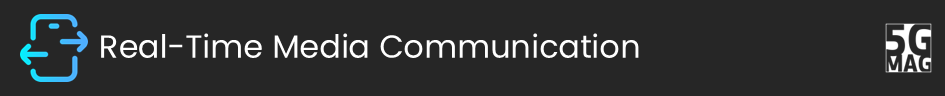
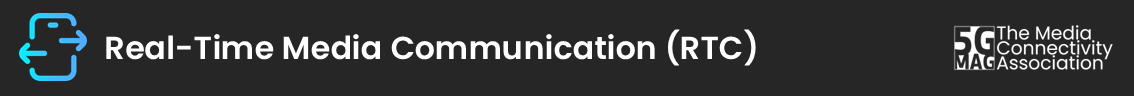
Documentation updates aligning with Tech and Getting-Started (#199)
* Update ls.md

* Update index.md

* Add files via upload

* Update index.md

* Update index.md

* Delete assets/images/Banner_Std.png

* Rename Banner_Std.PNG to Banner_Std.png

* Add files via upload

* Update standards.md

* Update standards.md

* Delete assets/images/Banner_Std.PNG

* Add files via upload

* Delete assets/images/Banner_5GBC.png

* Delete assets/images/Banner_5GC.png

* Delete assets/images/Banner_5GMS.png

* Delete assets/images/Banner_5MBS.png

* Delete assets/images/Banner_API.png

* Delete assets/images/Banner_B2D.png

* Delete assets/images/Banner_DVBI.png

* Delete assets/images/Banner_MD.png

* Delete assets/images/Banner_UEDC.png

* Delete assets/images/Banner_V3C.png

* Update 5g-core-service-consumers.md

* Update 5g-media-streaming.md

* Update 5g-multicast-broadcast-services.md

* Create avatar-communications.md

* Update beyond2d.md

* Update data-collection-event-exposure.md

* Update dvb-i-5g.md

* Update lte-based-5g-broadcast.md

* Update multimedia-content-delivery.md

* Update network_apis.md

* Update volumetric-video.md

* Update 5g-media-streaming.md

* Update 5g-multicast-broadcast-services.md

* Update lte-based-5g-broadcast.md

* Update 5g-core-service-consumers.md

* Create 6g.md

* Update aiml.md

* Update beyond2d.md

* Update avatar-communications.md

* Update dvb-i-5g.md

* Update multimedia-content-delivery.md

* Update network_apis.md

* Update npn.md

* Update ntn.md

* Update rtc.md

* Update tsc.md
[…]

Changed region(s): [[0.0, 0.125, 0.6751, 0.875], [0.8286, 0.2188, 1.0, 0.7812]]

diff --git a/index.md b/index.md
@@ -7,7 +7,11 @@ has_children: false
 
 <img src="./assets/images/Banner_Std.png" /> 
 
-This is the entry point to relevant information on **Standards and Specifications** and 5G-MAG's relation with SDOs.
+[Go to Reference Tools](https://developer.5g-mag.com){: .btn .btn-blue } [Go to Technical Documentation](https://tech.5g-mag.com){: .btn .btn-blue }
+
+<img src="../Tech/assets/images/5GMAG.png">
+
+This is the entry point to 5G-MAG's work on **Standards and Specifications**.
 
 # Feedback to Specifications
 5G-MAG maintains a GitHub repository to provide [**Feedback to Specifications**](pages/feedback.html) based, in particular, on software development, implementation and deployment.
@@ -20,79 +24,88 @@ This is the entry point to relevant information on **Standards and Specification
 
 ---
 
-# Standards and Specifications
+# Quick reference to standards and specifications (A-Z)
 
 <table>
   <tr>
-    <td markdown="span" align="center"><a href="./pages/5g-media-streaming.html"><img width="90%" style="border:5px solid black;" src="../Tech/assets/images/Tech_5G_Media_Streaming.png"><a/></td>
-    <td markdown="span" align="center"><a href="./pages/data-collection-event-exposure.html"><img width="90%" style="border:5px solid black;" src="../Tech/assets/images/Tech_UE_Data_Collection.png"><a/></td>
-  </tr>
-  <tr>
-    <td markdown="span" align="center">[Standards and Specifications](./pages/5g-media-streaming.html){: .btn .btn-blue } </td>
-    <td markdown="span" align="center">[Standards and Specifications](./pages/data-collection-event-exposure.html){: .btn .btn-blue } </td>
-  </tr>
-    <td><br></td>
-  <tr>
-    <td markdown="span" align="center"><a href="./pages/lte-based-5g-broadcast.html"><img width="90%" style="border:5px solid black;" src="../Tech/assets/images/Tech_5G_Broadcast.png"><a/></td>
-    <td markdown="span" align="center"><a href="./pages/5g-multicast-broadcast-services.html"><img width="90%" style="border:5px solid black;" src="../Tech/assets/images/Tech_5G_Multicast_Broadcast.png"><a/></td>
+    <td markdown="span" align="center"><a href="./pages/lte-based-5g-broadcast.html"><img width="90%" style="border:5px solid black;" src="../Tech/assets/images/Page_5G_Broadcast.png"><a/></td>
+    <td markdown="span" align="center"><a href="./pages/5g-media-streaming.html"><img width="90%" style="border:5px solid black;" src="../Tech/assets/images/Page_5G_Media_Streaming.png"><a/></td>
   </tr>
   <tr>
     <td markdown="span" align="center">[Standards and Specifications](./pages/lte-based-5g-broadcast.html){: .btn .btn-blue } </td>
+    <td markdown="span" align="center">[Standards and Specifications](./pages/5g-media-streaming.html){: .btn .btn-blue } </td>
+  </tr>
+    <td><br></td><td><br></td>
+  <tr>
+    <td markdown="span" align="center"><a href="./pages/5g-multicast-broadcast-services.html"><img width="90%" style="border:5px solid black;" src="../Tech/assets/images/Page_5G_Multicast_Broadcast.png"><a/></td>
+    <td markdown="span" align="center"><a href="./pages/5g-core-service-consumers.html"><img width="90%" style="border:5px solid black;" src="../Tech/assets/images/Page_5GC_Service_Consumers.png"><a/></td>
+  </tr>
+  <tr>
     <td markdown="span" align="center">[Standards and Specifications](./pages/5g-multicast-broadcast-services.html){: .btn .btn-blue } </td>
+    <td markdown="span" align="center">[Standards and Specifications](./pages/5g-core-service-consumers.html){: .btn .btn-blue } </td>
   </tr>
-    <td><br></td>
+    <td><br></td><td><br></td>
   <tr>
-    <td markdown="span" align="center"><a href="./pages/rtc.html"><img width="90%" style="border:5px solid black;" src="../Tech/assets/images/Tech_RTC.png"><a/></td>
-    <td markdown="span" align="center"><a href="./pages/network_apis.html"><img width="90%" style="border:5px solid black;" src="../Tech/assets/images/Tech_Network_APIs.png"><a/></td>
-  </tr>
-  <tr>
-    <td markdown="span" align="center">[Standards and Specifications](./pages/rtc.html){: .btn .btn-blue } </td>
-    <td markdown="span" align="center">[Standards and Specifications](./pages/network_apis.html){: .btn .btn-blue } </td>
-  </tr>
-    <td><br></td>
-  <tr>
-    <td markdown="span" align="center"><a href="./pages/ntn.html"><img width="90%" style="border:5px solid black;" src="../Tech/assets/images/Tech_NTN.png"><a/></td>
-    <td markdown="span" align="center"><a href="./pages/npn.html"><img width="90%" style="border:5px solid black;" src="../Tech/assets/images/Tech_NPN.png"><a/></td>
+    <td markdown="span" align="center"><a href="./pages/6g.html"><img width="90%" style="border:5px solid black;" src="../Tech/assets/images/Page_6G.png"><a/></td>
+    <td markdown="span" align="center"><a href="./pages/ai-ml-evaluation-framework.html"><img width="90%" style="border:5px solid black;" src="../Tech/assets/images/Page_AIML.png"><a/></td>
   </tr>
   <tr>
-    <td markdown="span" align="center">[Standards and Specifications](./pages/ntn.html){: .btn .btn-blue } </td>
-    <td markdown="span" align="center">[Standards and Specifications](./pages/npn.html){: .btn .btn-blue } </td>
-  </tr>
-    <td><br></td>
-  <tr>
-    <td markdown="span" align="center"><a href="./pages/tsc.html"><img width="90%" style="border:5px solid black;" src="../Tech/assets/images/Tech_TSC.png"><a/></td>
-    <td markdown="span" align="center"><a href="./pages/xr.html"><img width="90%" style="border:5px solid black;" src="../Tech/assets/images/Tech_XR_Media_MPEG_I_SD.png"><a/></td>
-  </tr>
-  <tr>
-    <td markdown="span" align="center">[Standards and Specifications](./pages/tsc.html){: .btn .btn-blue } </td>
-    <td markdown="span" align="center">[Standards and Specifications](./pages/xr.html){: .btn .btn-blue } </td>
-  </tr>
-    <td><br></td>
-  <tr>
-    <td markdown="span" align="center"><a href="./pages/volumetric-video.html"><img width="90%" style="border:5px solid black;" src="../Tech/assets/images/Tech_V3C.png"><a/></td>
-    <td markdown="span" align="center"><a href="./pages/beyond2d.html"><img width="90%" style="border:5px solid black;" src="../Tech/assets/images/Tech_Beyond2D.png"><a/></td>
-  </tr>
-  <tr>
-    <td markdown="span" align="center">[Standards and Specifications](./pages/volumetric-video.html){: .btn .btn-blue } </td>
-    <td markdown="span" align="center">[Standards and Specifications](./pages/beyond2d.html){: .btn .btn-blue } </td>
-  </tr>
-    <td><br></td>
-  <tr>
-    <td markdown="span" align="center"><a href="./pages/ai-ml-evaluation-framework.html"><img width="90%" style="border:5px solid black;" src="../Tech/assets/images/Tech_AIML.png"><a/></td>
-    <td markdown="span" align="center"><a href="./pages/multimedia-content-delivery.html"><img width="90%" style="border:5px solid black;" src="../Tech/assets/images/Tech_Multimedia_delivery_protocols.png"><a/></td>
-  </tr>
-  <tr>
+    <td markdown="span" align="center">[Standards and Specifications](./pages/6g.html){: .btn .btn-blue } </td>
     <td markdown="span" align="center">[Standards and Specifications](./pages/ai-ml-evaluation-framework.html){: .btn .btn-blue } </td>
-    <td markdown="span" align="center">[Standards and Specifications](./pages/multimedia-content-delivery.html){: .btn .btn-blue } </td>
   </tr>
-    <td><br></td>
+    <td><br></td><td><br></td>
   <tr>
-    <td markdown="span" align="center"><a href="./pages/dvb-i-5g.html"><img width="90%" style="border:5px solid black;" src="../Tech/assets/images/Tech_DVB_I_over_5G.png"><a/></td>
-    <td markdown="span" align="center"><a href="./pages/6g.html"><img width="90%" style="border:5px solid black;" src="../Tech/assets/images/Tech_6G.png"><a/></td>
+    <td markdown="span" align="center"><a href="./pages/beyond2d.html"><img width="90%" style="border:5px solid black;" src="../Tech/assets/images/Page_Beyond2D.png"><a/></td>
+    <td markdown="span" align="center"><a href="./pages/avatar-communications.html"><img width="90%" style="border:5px solid black;" src="../Tech/assets/images/Page_Avatar.png"><a/></td>
+  </tr>
+  <tr>
+    <td markdown="span" align="center">[Standards and Specifications](./pages/beyond2d.html){: .btn .btn-blue } </td>
+    <td markdown="span" align="center">[Standards and Specifications](./pages/avatar-communications.html){: .btn .btn-blue } </td>
+  </tr>
+    <td><br></td><td><br></td>
+  <tr>
+    <td markdown="span" align="center"><a href="./pages/dvb-i-5g.html"><img width="90%" style="border:5px solid black;" src="../Tech/assets/images/Page_DVB_I_over_5G.png"><a/></td>
+    <td markdown="span" align="center"><a href="./pages/multimedia-content-delivery.html"><img width="90%" style="border:5px solid black;" src="../Tech/assets/images/Page_Multimedia_delivery_protocols.png"><a/></td>
   </tr>
   <tr>
     <td markdown="span" align="center">[Standards and Specifications](./pages/dvb-i-5g.html){: .btn .btn-blue } </td>
-    <td markdown="span" align="center">[Standards and Specifications](./pages/6g.html){: .btn .btn-blue } </td>
+    <td markdown="span" align="center">[Standards and Specifications](./pages/multimedia-content-delivery.html){: .btn .btn-blue } </td>
+  </tr>
+    <td><br></td><td><br></td>
+  <tr>
+    <td markdown="span" align="center"><a href="./pages/network_apis.html"><img width="90%" style="border:5px solid black;" src="../Tech/assets/images/Page_Network_APIs.png"><a/></td>
+    <td markdown="span" align="center"><a href="./pages/npn.html"><img width="90%" style="border:5px solid black;" src="../Tech/assets/images/Page_NPN.png"><a/></td>
+  </tr>
+  <tr>
+    <td markdown="span" align="center">[Standards and Specifications](./pages/network_apis.html){: .btn .btn-blue } </td>
+    <td markdown="span" align="center">[Standards and Specifications](./pages/npn.html){: .btn .btn-blue } </td>
+  </tr>
+    <td><br></td><td><br></td>
+  <tr>
+    <td markdown="span" align="center"><a href="./pages/ntn.html"><img width="90%" style="border:5px solid black;" src="../Tech/assets/images/Page_NTN.png"><a/></td>
+    <td markdown="span" align="center"><a href="./pages/rtc.html"><img width="90%" style="border:5px solid black;" src="../Tech/assets/images/Page_RTC.png"><a/></td>
+  </tr>
+  <tr>
+    <td markdown="span" align="center">[Standards and Specifications](./pages/ntn.html){: .btn .btn-blue } </td>
+    <td markdown="span" align="center">[Standards and Specifications](./pages/rtc.html){: .btn .btn-blue } </td>
+  </tr>
+    <td><br></td><td><br></td>
+  <tr>
+    <td markdown="span" align="center"><a href="./pages/tsc.html"><img width="90%" style="border:5px solid black;" src="../Tech/assets/images/Page_TSC.png"><a/></td>
+    <td markdown="span" align="center"><a href="./pages/data-collection-event-exposure.html"><img width="90%" style="border:5px solid black;" src="../Tech/assets/images/Page_UE_Data_Collection.png"><a/></td>
+  </tr>
+  <tr>
+    <td markdown="span" align="center">[Standards and Specifications](./pages/tsc.html){: .btn .btn-blue } </td>
+    <td markdown="span" align="center">[Standards and Specifications](./pages/data-collection-event-exposure.html){: .btn .btn-blue } </td>
+  </tr>
+    <td><br></td><td><br></td>
+  <tr>
+    <td markdown="span" align="center"><a href="./pages/volumetric-video.html"><img width="90%" style="border:5px solid black;" src="../Tech/assets/images/Page_Volumetric.png"><a/></td>
+    <td markdown="span" align="center"><a href="./pages/xr.html"><img width="90%" style="border:5px solid black;" src="../Tech/assets/images/Page_XR.png"><a/></td>
+  </tr>
+  <tr>
+    <td markdown="span" align="center">[Standards and Specifications](./pages/volumetric-video.html){: .btn .btn-blue } </td>
+    <td markdown="span" align="center">[Standards and Specifications](./pages/xr.html){: .btn .btn-blue } </td>
   </tr>
 </table>
 

diff --git a/pages/standards.md b/pages/standards.md
@@ -5,22 +5,89 @@ nav_order: 4
 has_children: yes
 ---
 
-# Work Items, Specifications and Technical Reports
+<img src="../assets/images/Banner_Std.png" /> 
 
-| Topic |
-|-------|
-| [**5G Media Streaming Architecture (5GMS)**](./5g-media-streaming.html) |
-| [**UE data collection, reporting and event exposure**](./data-collection-event-exposure.html) |
-| [**5G Broadcast**](./lte-based-5g-broadcast.html) |
-| [**5G Multicast Broadcast Services (MBS)**](./5g-multicast-broadcast-services.html) |
-| [**Real-Time Media Communication (RTC)**](./rtc.html) |
-| [**Network APIs**](./network_apis.html) |
-| [**Non-Terrestrial Networks (NTN)**](./ntn.html) |
-| [**Non-Public Networks (NPN)**](./npn.html) |
-| [**Time Sensitive Communication**](./tsc.html) |
-| [**XR with MPEG-I Scene Description**](./xr.html) |
-| [**Volumetric Video with MPEG V3C**](./volumetric-video.html) |
-| [**Beyond 2D Video Experiences**](./beyond2d.html) |
-| [**AI/ML in 5G Media**](./aiml.html) |
-| [**Multimedia Delivery Protocols**](./multimedia-content-delivery.html) |
-| [**DVB-I Services over 5G**](./dvb-i-5g.html) |
+# Quick reference to standards and specifications (A-Z)
+
+<table>
+  <tr>
+    <td markdown="span" align="center"><a href="./lte-based-5g-broadcast.html"><img width="90%" style="border:5px solid black;" src="../../Tech/assets/images/Page_5G_Broadcast.png"><a/></td>
+    <td markdown="span" align="center"><a href="./5g-media-streaming.html"><img width="90%" style="border:5px solid black;" src="../../Tech/assets/images/Page_5G_Media_Streaming.png"><a/></td>
+  </tr>
+  <tr>
+    <td markdown="span" align="center">[Standards and Specifications](./lte-based-5g-broadcast.html){: .btn .btn-blue } </td>
+    <td markdown="span" align="center">[Standards and Specifications](./5g-media-streaming.html){: .btn .btn-blue } </td>
+  </tr>
+    <td><br></td><td><br></td>
+  <tr>
+    <td markdown="span" align="center"><a href="./5g-multicast-broadcast-services.html"><img width="90%" style="border:5px solid black;" src="../../Tech/assets/images/Page_5G_Multicast_Broadcast.png"><a/></td>
+    <td markdown="span" align="center"><a href="./5g-core-service-consumers.html"><img width="90%" style="border:5px solid black;" src="../../Tech/assets/images/Page_5GC_Service_Consumers.png"><a/></td>
+  </tr>
+  <tr>
+    <td markdown="span" align="center">[Standards and Specifications](./5g-multicast-broadcast-services.html){: .btn .btn-blue } </td>
+    <td markdown="span" align="center">[Standards and Specifications](./5g-core-service-consumers.html){: .btn .btn-blue } </td>
+  </tr>
+    <td><br></td><td><br></td>
+  <tr>
+    <td markdown="span" align="center"><a href="./6g.html"><img width="90%" style="border:5px solid black;" src="../../Tech/assets/images/Page_6G.png"><a/></td>
+    <td markdown="span" align="center"><a href="./ai-ml-evaluation-framework.html"><img width="90%" style="border:5px solid black;" src="../../Tech/assets/images/Page_AIML.png"><a/></td>
+  </tr>
+  <tr>
+    <td markdown="span" align="center">[Standards and Specifications](./6g.html){: .btn .btn-blue } </td>
+    <td markdown="span" align="center">[Standards and Specifications](./ai-ml-evaluation-framework.html){: .btn .btn-blue } </td>
+  </tr>
+    <td><br></td><td><br></td>
+  <tr>
+    <td markdown="span" align="center"><a href="./beyond2d.html"><img width="90%" style="border:5px solid black;" src="../../Tech/assets/images/Page_Beyond2D.png"><a/></td>
+    <td markdown="span" align="center"><a href="./avatar-communications.html"><img width="90%" style="border:5px solid black;" src="../../Tech/assets/images/Page_Avatar.png"><a/></td>
+  </tr>
+  <tr>
+    <td markdown="span" align="center">[Standards and Specifications](./beyond2d.html){: .btn .btn-blue } </td>
+    <td markdown="span" align="center">[Standards and Specifications](./avatar-communications.html){: .btn .btn-blue } </td>
+  </tr>
+    <td><br></td><td><br></td>
+  <tr>
+    <td markdown="span" align="center"><a href="./dvb-i-5g.html"><img width="90%" style="border:5px solid black;" src="../../Tech/assets/images/Page_DVB_I_over_5G.png"><a/></td>
+    <td markdown="span" align="center"><a href="./multimedia-content-delivery.html"><img width="90%" style="border:5px solid black;" src="../../Tech/assets/images/Page_Multimedia_delivery_protocols.png"><a/></td>
+  </tr>
+  <tr>
+    <td markdown="span" align="center">[Standards and Specifications](./dvb-i-5g.html){: .btn .btn-blue } </td>
+    <td markdown="span" align="center">[Standards and Specifications](./multimedia-content-delivery.html){: .btn .btn-blue } </td>
+  </tr>
+    <td><br></td><td><br></td>
+  <tr>
+    <td markdown="span" align="center"><a href="./network_apis.html"><img width="90%" style="border:5px solid black;" src="../../Tech/assets/images/Page_Network_APIs.png"><a/></td>
+    <td markdown="span" align="center"><a href="./npn.html"><img width="90%" style="border:5px solid black;" src="../../Tech/assets/images/Page_NPN.png"><a/></td>
+  </tr>
+  <tr>
+    <td markdown="span" align="center">[Standards and Specifications](./network_apis.html){: .btn .btn-blue } </td>
+    <td markdown="span" align="center">[Standards and Specifications](./npn.html){: .btn .btn-blue } </td>
+  </tr>
+    <td><br></td><td><br></td>
+  <tr>
+    <td markdown="span" align="center"><a href="./ntn.html"><img width="90%" style="border:5px solid black;" src="../../Tech/assets/images/Page_NTN.png"><a/></td>
+    <td markdown="span" align="center"><a href="./rtc.html"><img width="90%" style="border:5px solid black;" src="../../Tech/assets/images/Page_RTC.png"><a/></td>
+  </tr>
+  <tr>
+    <td markdown="span" align="center">[Standards and Specifications](./ntn.html){: .btn .btn-blue } </td>
+    <td markdown="span" align="center">[Standards and Specifications](./rtc.html){: .btn .btn-blue } </td>
+  </tr>
+    <td><br></td><td><br></td>
+  <tr>
+    <td markdown="span" align="center"><a href="./tsc.html"><img width="90%" style="border:5px solid black;" src="../../Tech/assets/images/Page_TSC.png"><a/></td>
+    <td markdown="span" align="center"><a href="./data-collection-event-exposure.html"><img width="90%" style="border:5px solid black;" src="../../Tech/assets/images/Page_UE_Data_Collection.png"><a/></td>
+  </tr>
+  <tr>
+    <td markdown="span" align="center">[Standards and Specifications](./tsc.html){: .btn .btn-blue } </td>
+    <td markdown="span" align="center">[Standards and Specifications](./data-collection-event-exposure.html){: .btn .btn-blue } </td>
+  </tr>
+    <td><br></td><td><br></td>
+  <tr>
+    <td markdown="span" align="center"><a href="./volumetric-video.html"><img width="90%" style="border:5px solid black;" src="../../Tech/assets/images/Page_Volumetric.png"><a/></td>
+    <td markdown="span" align="center"><a href="./xr.html"><img width="90%" style="border:5px solid black;" src="../../Tech/assets/images/Page_XR.png"><a/></td>
+  </tr>
+  <tr>
+    <td markdown="span" align="center">[Standards and Specifications](./volumetric-video.html){: .btn .btn-blue } </td>
+    <td markdown="span" align="center">[Standards and Specifications](./xr.html){: .btn .btn-blue } </td>
+  </tr>
+</table>

diff --git a/pages/ls.md b/pages/ls.md
@@ -9,10 +9,13 @@ nav_order: 1
 
 # Liaison Statements and Inputs to SDOs
 
-## 3GPP: Incoming / Outcoming LS and Inputs
+## 3GPP: Incoming / Outgoing LS and Inputs
 
  Meeting | Title  
  -- | --
+3GPP CT4#133 | [Reply LS on Service APIs for MBS User Services](https://www.3gpp.org/ftp/tsg_ct/WG4_protocollars_ex-CN4/CT4_133_Goa-2026-02/Docs/C4-260367.zip)
+3GPP CT3#145 | [LS Reply on Service APIs for MBS User Services](https://www.3gpp.org/ftp/tsg_ct/WG3_interworking_ex-CN3/TSGC3_145_Goa/Docs/C3-260506.zip)
+3GPP CT4#132 | [LS on Service APIs for MBS User Services](https://www.3gpp.org/ftp/tsg_ct/WG4_protocollars_ex-CN4/CT4_132_Dallas-2025-11/Docs/C4-255251.zip)
 3GPP CT3#144 | [LS on Service APIs for MBS User Services](https://www.3gpp.org/ftp/tsg_ct/WG3_interworking_ex-CN3/TSGC3_144_Dallas/Docs/C3-255041.zip)
 3GPP SA4#134	| [LS on Service APIs for MBS User Services](https://www.3gpp.org/ftp/tsg_sa/WG4_CODEC/TSGS4_134_Dallas/Docs/S4-251689.zip)
 3GPP SA4 Video AHG post 132 | [[FS_Beyond2D] Creation of a 5G-MAG repository](https://www.3gpp.org/ftp/TSG_SA/WG4_CODEC/3GPP_SA4_AHOC_MTGs/SA4_VIDEO/Docs/S4aV250048.zip)

diff --git a/pages/multimedia-content-delivery.md b/pages/multimedia-content-delivery.md
@@ -3,10 +3,10 @@ layout: default
 title: Multimedia Delivery Protocols
 parent: Specifications
 has_children: false
-nav_order: 14
+nav_order: 10
 ---
 
-<img src="../assets/images/Banner_MD.png" /> 
+<img src="../assets/images/Banner_Multimedia_delivery_protocols.png" /> 
 
 # Multimedia Delivery Protocols - Relevant Specifications
 

diff --git a/pages/data-collection-event-exposure.md b/pages/data-collection-event-exposure.md
@@ -3,10 +3,10 @@ layout: default
 title: UE Data Collection
 parent: Specifications
 has_children: false
-nav_order: 2
+nav_order: 16
 ---
 
-<img src="../assets/images/Banner_UEDC.png" /> 
+<img src="../assets/images/Banner_UE_Data_Collection.png" /> 
 
 # UE Data Collection, Reporting and Event Exposure - Relevant Specifications
 

diff --git a/pages/5g-multicast-broadcast-services.md b/pages/5g-multicast-broadcast-services.md
@@ -3,10 +3,10 @@ layout: default
 title: 5G Multicast Broadcast Services
 parent: Specifications
 has_children: false
-nav_order: 4
+nav_order: 3
 ---
 
-<img src="../assets/images/Banner_5MBS.png" /> 
+<img src="../assets/images/Banner_5G_Multicast_Broadcast.png" /> 
 
 # 5G Multicast Broadcast Services - Relevant Specifications
 

diff --git a/pages/volumetric-video.md b/pages/volumetric-video.md
@@ -3,10 +3,10 @@ layout: default
 title: Volumetric Video with V3C
 parent: Specifications
 has_children: false
-nav_order: 11
+nav_order: 17
 ---
 
-<img src="../assets/images/Banner_V3C.png" /> 
+<img src="../assets/images/Banner_Volumetric.png" /> 
 
 # Volumetric Video Experiences with MPEG V3C - Relevant Specifications
 

diff --git a/pages/5g-media-streaming.md b/pages/5g-media-streaming.md
@@ -3,10 +3,10 @@ layout: default
 title: 5G Media Streaming
 parent: Specifications
 has_children: false
-nav_order: 0
+nav_order: 2
 ---
 
-<img src="../assets/images/Banner_5GMS.png" /> 
+<img src="../assets/images/Banner_5G_Media_Streaming.png" /> 
 
 # 5G Media Streaming Architecture - Relevant Specifications
 

diff --git a/pages/5g-core-service-consumers.md b/pages/5g-core-service-consumers.md
@@ -3,10 +3,10 @@ layout: default
 title: 5GC Service Consumers
 parent: Specifications
 has_children: false
-nav_order: 1
+nav_order: 4
 ---
 
-<img src="../assets/images/Banner_5GC.png" /> 
+<img src="../assets/images/Banner_5GC_Service_Consumers.png" /> 
 
 # 5G Core Service Consumers - Relevant Specifications
 

diff --git a/pages/dvb-i-5g.md b/pages/dvb-i-5g.md
@@ -3,9 +3,9 @@ layout: default
 title: DVB-I Services over 5G
 parent: Specifications
 has_children: false
-nav_order: 15
+nav_order: 9
 ---
 
-<img src="../assets/images/Banner_DVBI.png" /> 
+<img src="../assets/images/Banner_DVB_I_over_5G.png" /> 
 
 # DVB-I Services over 5G Systems - Relevant Specifications

diff --git a/pages/network_apis.md b/pages/network_apis.md
@@ -3,9 +3,9 @@ layout: default
 title: Network APIs
 parent: Specifications
 has_children: false
-nav_order: 6
+nav_order: 11
 ---
 
-<img src="../assets/images/Banner_API.png" /> 
+<img src="../assets/images/Banner_Network_APIs.png" /> 
 
 # Network Capability Exposure through APIs - Relevant Specifications

diff --git a/pages/beyond2d.md b/pages/beyond2d.md
@@ -3,10 +3,10 @@ layout: default
 title: Beyond 2D Video
 parent: Specifications
 has_children: false
-nav_order: 12
+nav_order: 7
 ---
 
-<img src="../assets/images/Banner_B2D.png" /> 
+<img src="../assets/images/Banner_Beyond2D.png" /> 
 
 # Beyond 2D Video Experiences - Relevant Standards
 
